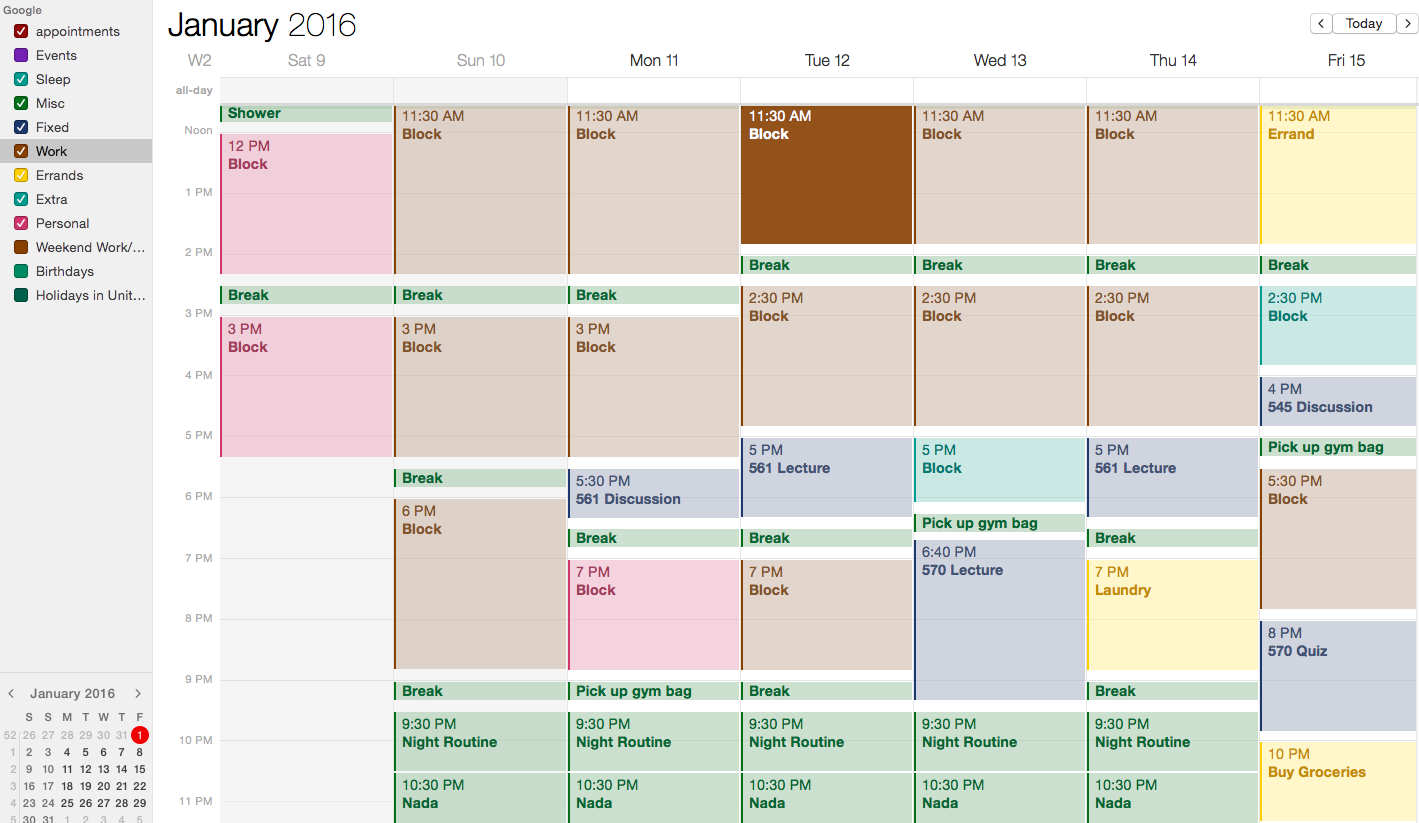
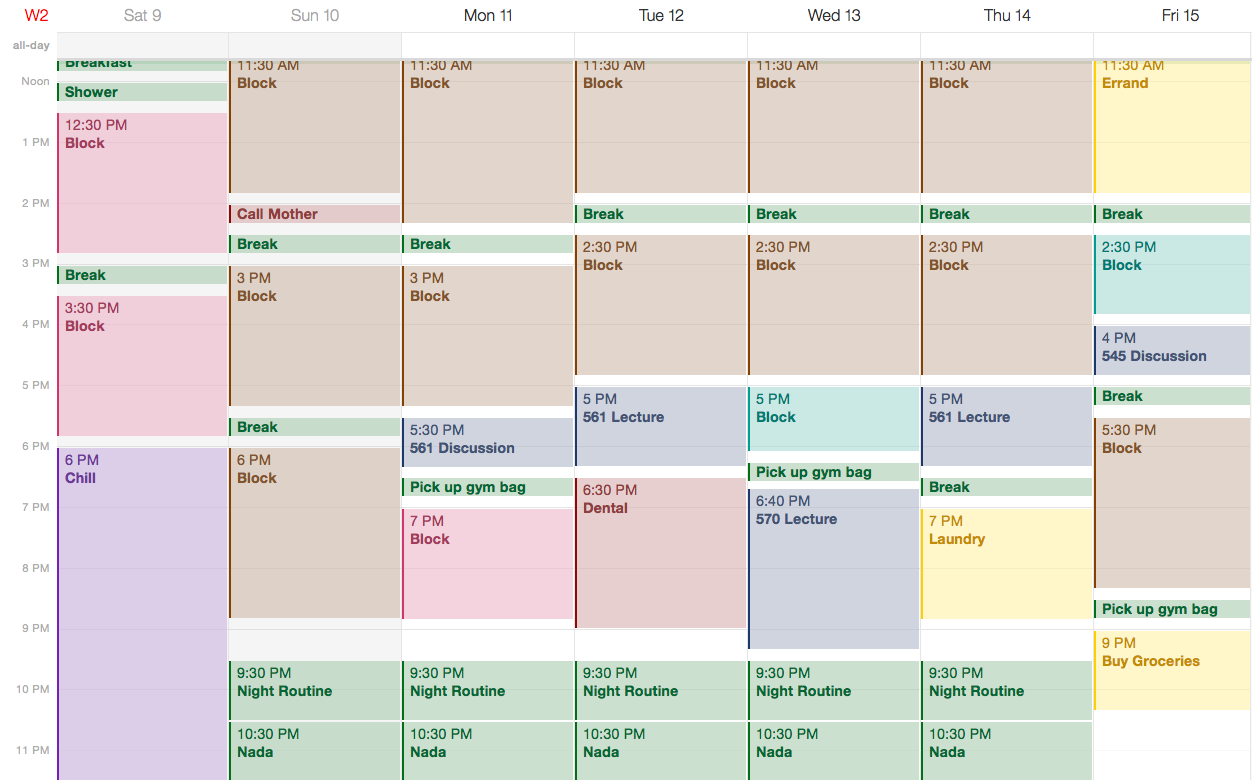
update

diff --git a/2016/01/02/TimeManagement.html b/2016/01/02/TimeManagement.html
@@ -168,8 +168,8 @@ For example, I delegate time for research using my “Work” sub-calendar. Labe
     </tr>
     <tr>
       <td>Events</td>
-      <td>one-time events.</td>
-      <td>- seminars <br /> - gallery openings</td>
+      <td>time relaxing</td>
+      <td>- hanging out with friends <br /> - gallery openings <br /> - seminars</td>
     </tr>
     <tr>
       <td>Misc.</td>
@@ -352,11 +352,15 @@ Using the spreadsheet, we can calculate the number of hours assigned to each sub
 
 <p>51.75 hours to delegate.</p>
 
-<p>I assume that you do not want to dedicate all 51.75 of these hours to your official work. Maybe you play the saxaphone and would like to dedicate 6 hours a week to that, maybe you have a side business that requires 7 hours a week. </p>
+<p>I assume that you do not want to dedicate all 51.75 of these hours to your official work. Maybe you play the saxaphone and would like to dedicate 6 hours a week to that, maybe you have a side business that requires 7 hours a week. Maybe you want to work a maximum of 40 hours and chill out the rest of the time.</p>
 
-<p>This is where my “Personal” and “Extra” calendars come in. I dedicate ~7 hours to work in my “Personal” calendar and ~2.5 hours to work in my “Extra” calendar.</p>
+<p>This is where my “Personal”, “Extra”, and “Events” calendars come in. I dedicate ~7 hours to work in my “Personal” calendar and ~2.5 hours to work in my “Extra” calendar. I leave the end of my Saturdays (6pm onwards) to relaxing/hanging out with friends. </p>
 
-<p>I have noticed that I typically have one errand that requires that I travel somewhere per week (e.g. post office, dmv, car wash, etc.). By dedicating one time block to errands, I force myself to make time for them.</p>
+<p>I recognize that people may want to dedicate a lot more time to relaxing than I do. That’s fine! You can dedicate as much time as you want. With this, you know that you have enough time to relax and get as much work done as you want. If you assign too much time for relaxing and don’t have enough time for your tasks, you will see this in your spreadsheet and can plan accordingly.</p>
+
+<p>This may seem like overkill but by assigning time to everything, you really help to ensure that you have enough time to do everything you want to do every week.</p>
+
+<p>Also, remember that this is only a template and not a permanent distribution of your time. I move, extend, and shorten events every week. What you make isn’t something to follow strictly, it’s just something to use as you plan your week out. Nothing is permanent!</p>
 
 <table>
   <tr>
@@ -369,6 +373,8 @@ Using the spreadsheet, we can calculate the number of hours assigned to each sub
   </tr>
 </table>
 
+<p>(Note that I have an already set Dental appointment in my calendar where I typically have a “Work” block).</p>
+
 <ul class="collapsible" data-collapsible="accordian">
   <li>
     <div class="header collapsible-header center"> 
@@ -379,7 +385,8 @@ Using the spreadsheet, we can calculate the number of hours assigned to each sub
       <b>Work + Breaks:</b> I have found that I can work for up to 3 hours (with short breaks) before I need a longer break. Depending on how mentally straining my work is, the length of this break can vary. By having 20 minute breaks with 10-minute cushions on both sides, I can extend my break to 40 minutes when needed. <br /><br />
       <b>Personal:</b> Saturday seemed like an optimal choice for "unofficial work." I needed about ~2 hours in addition to the time delegated to saturday. Because I tend to thoroughly enjoy this work, I decided to place my last assignment towards the end of the day. I chose monday arbitrarily. <br /><br />
       <b>Extra:</b> On Wednesday, I saw that I potentially would be working for 3.5+ hours. I find that I become ineffective if I work this long, so I decided to dedicate that last hour to "extra" work. On Friday, I saw that I had a work block for an hour before one of my classes. I know that I cannot get "in the zone" in this amount of time, so i dedicated this hour to "extra" work. <br /><br />
-      <b>Errands:</b> I saw that I had a sole work block on Friday between classes. I decided to dedicate it to errands. Because the following block is an extra block, a potentially long errand (e.g. 4+ hours at the dmv) could be accomodated here without a loss of work time. I buy groceries on weekly basis and do laundry on a bi-weekly basis. The former takes about 1.5 hours and the latter about 2 hours. I saw that I had free after my last class on Friday so I put time for groceries then. Since I have less motivation to do work as the day progresses, I decided to assign time for laundry towards the end of the day and picked Thursday arbitrarily. <br /><br />
+      <b>Errands:</b> I have noticed that I typically have one errand that requires that I travel somewhere per week (e.g. post office, dmv, car wash, etc.). By dedicating one time block to errands, I force myself to make time for them.
+      <br /> <br /> I saw that I had a sole work block on Friday between classes. I decided to dedicate it to errands. Because the following block is an extra block, a potentially long errand (e.g. 4+ hours at the dmv) could be accomodated here without a loss of work time. I buy groceries on weekly basis and do laundry on a bi-weekly basis. The former takes about 1.5 hours and the latter about 2 hours. I saw that I had free after my last class on Friday so I put time for groceries then. Since I have less motivation to do work as the day progresses, I decided to assign time for laundry towards the end of the day and picked Thursday arbitrarily. <br /><br />
       
       <b>Other factors:</b><br />
       1. My grandmother and mother like to speak with me weekly so I put time in my calendar to call them.<br />
